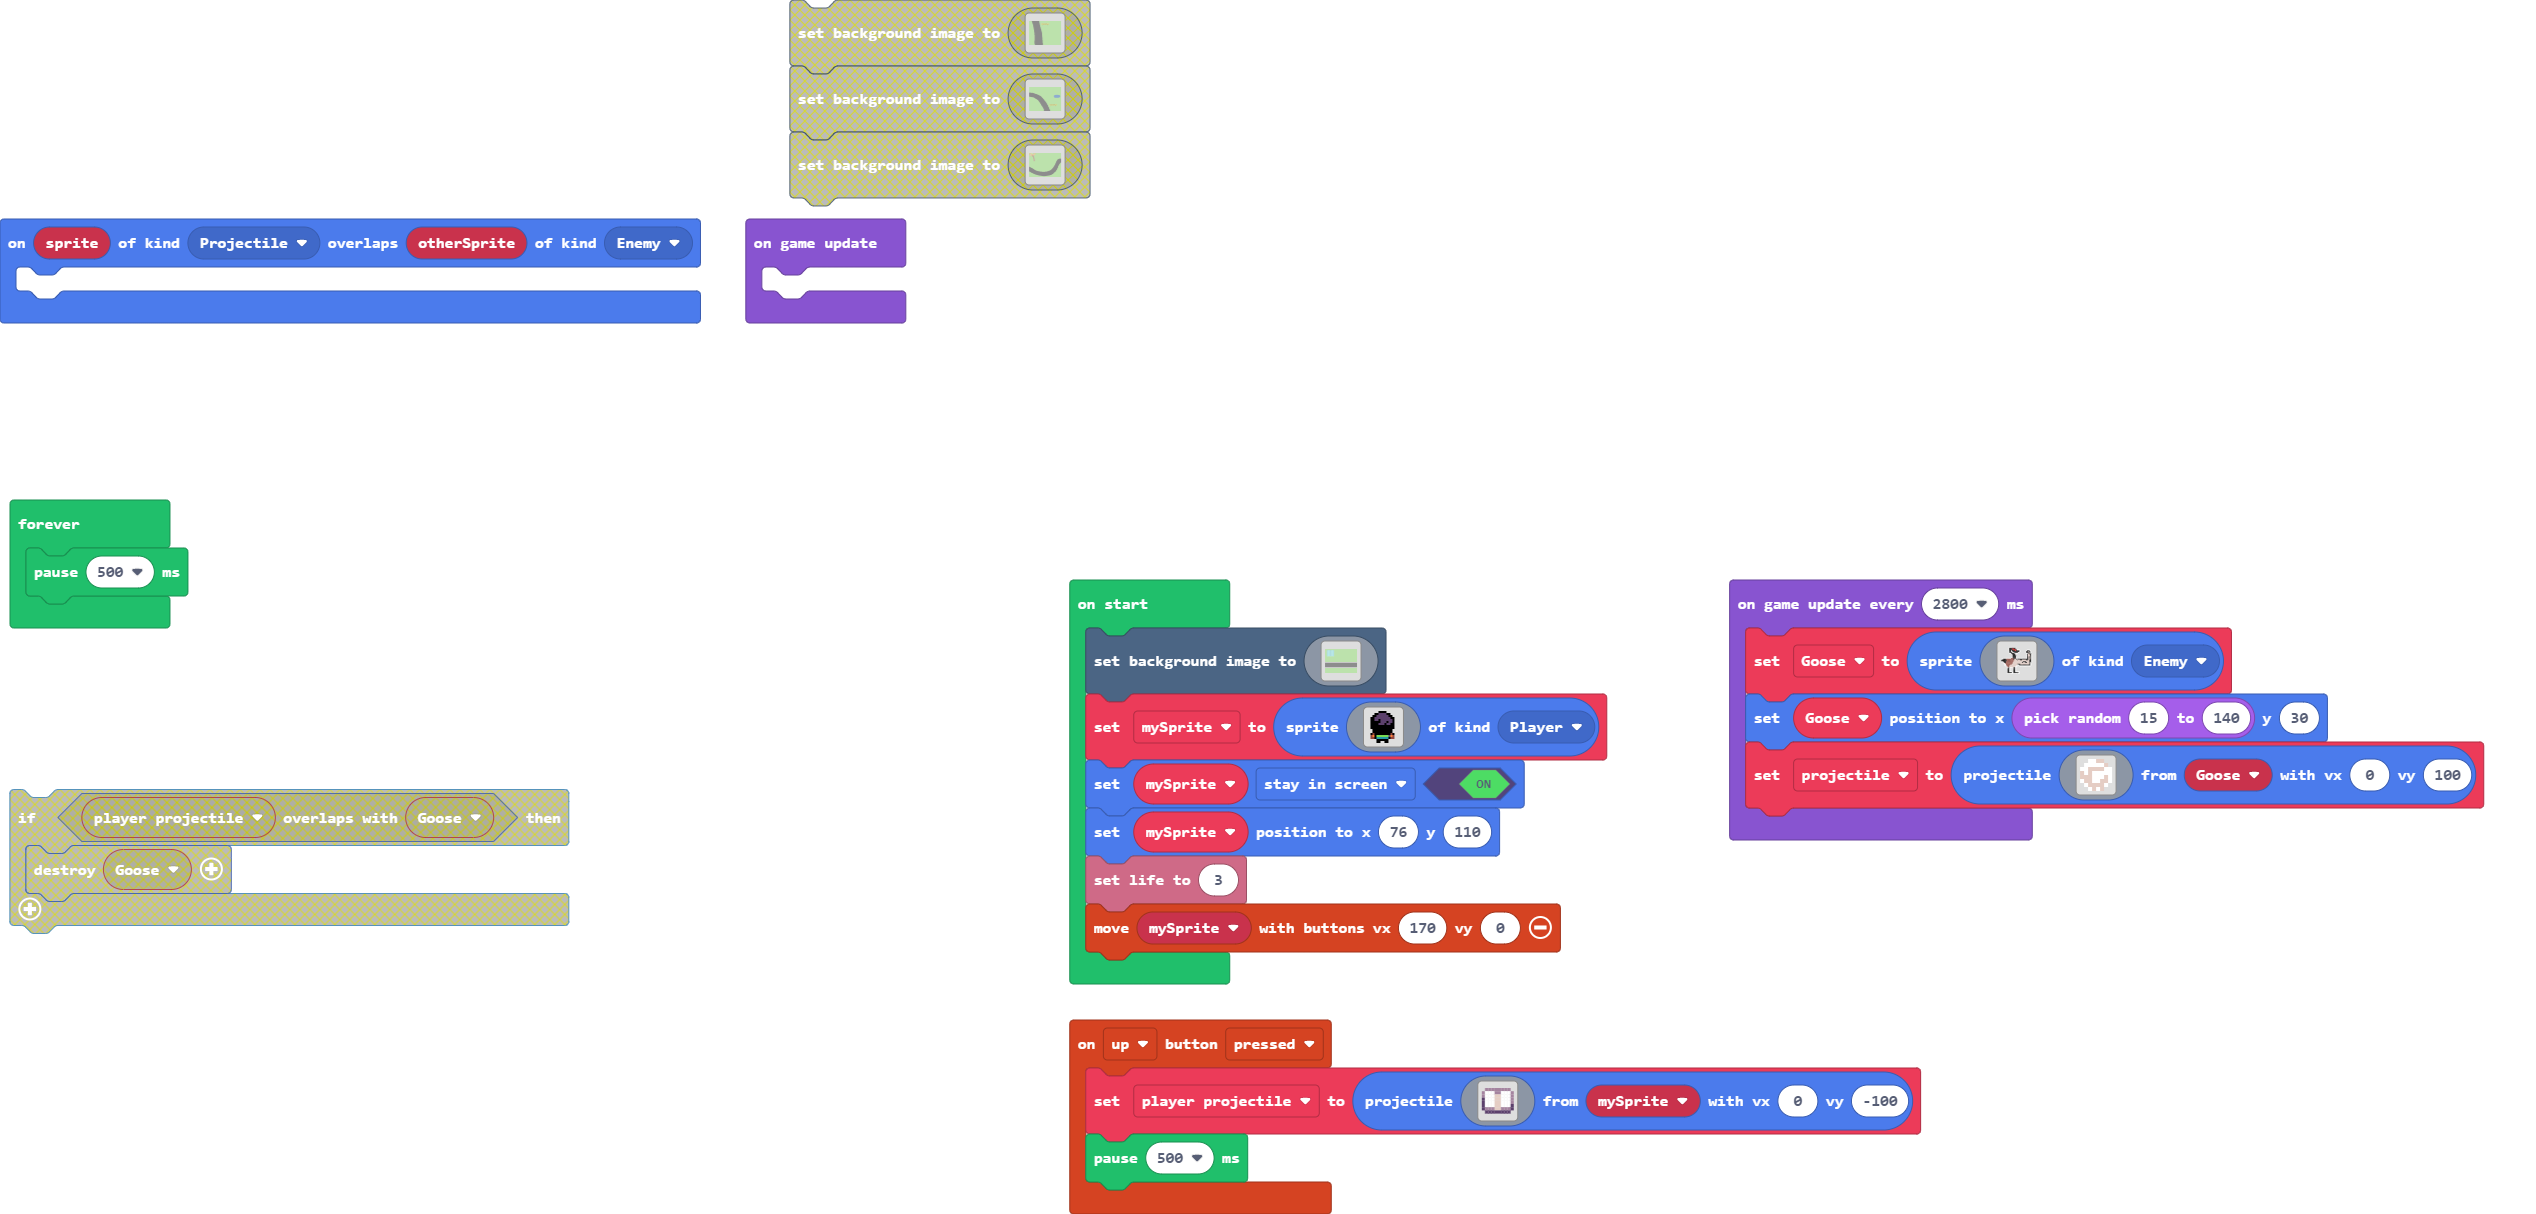
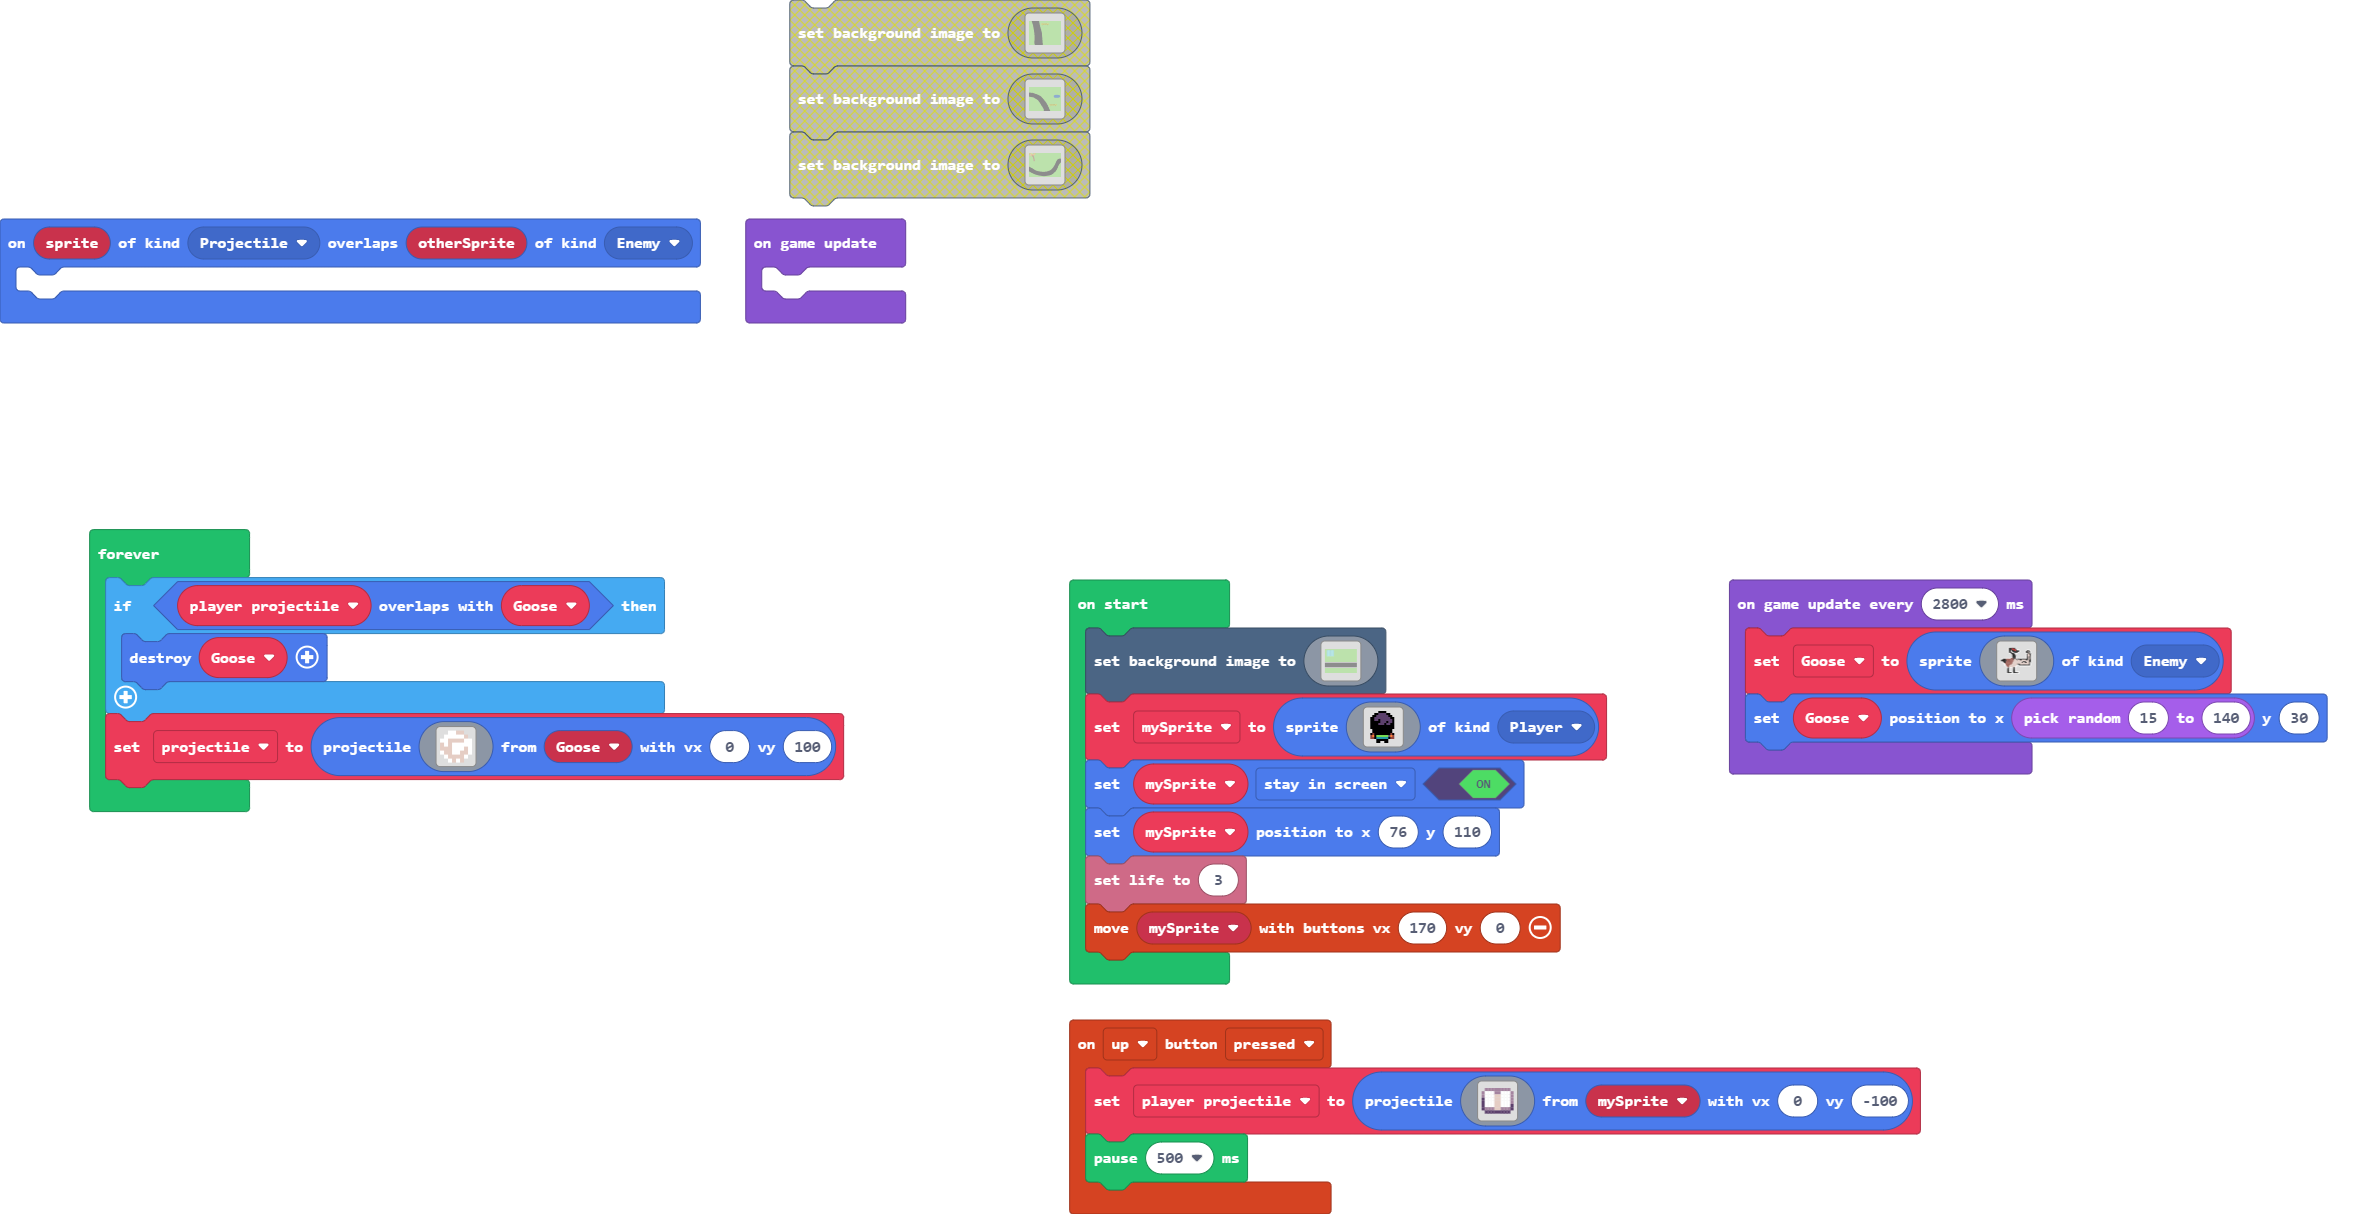
goose problem 2

Changed region(s): [[0.4044, 0.4572, 0.9954, 1.0], [0.0, 0.3962, 0.3733, 0.7619], [0.0, 0.0, 0.4666, 0.2743]]

diff --git a/main.ts b/main.ts
@@ -166,7 +166,19 @@ game.onUpdate(function () {
 	
 })
 forever(function () {
-    pause(500)
+    if (player_projectile.overlapsWith(Goose)) {
+        Goose.destroy()
+    }
+    projectile = sprites.createProjectileFromSprite(img`
+        . . 1 1 d d . . 
+        . 1 1 1 1 1 d . 
+        1 1 d d d d 1 1 
+        d 1 d 1 1 1 1 1 
+        d d d 1 1 1 d 1 
+        1 d d 1 1 d d 1 
+        . 1 d d d d 1 . 
+        . . 1 d 1 d . . 
+        `, Goose, 0, 100)
 })
 game.onUpdateInterval(2800, function () {
     Goose = sprites.create(img`
@@ -204,14 +216,4 @@ game.onUpdateInterval(2800, function () {
         .......111111111111111................
         `, SpriteKind.Enemy)
     Goose.setPosition(randint(15, 140), 30)
-    projectile = sprites.createProjectileFromSprite(img`
-        . . 1 1 d d . . 
-        . 1 1 1 1 1 d . 
-        1 1 d d d d 1 1 
-        d 1 d 1 1 1 1 1 
-        d d d 1 1 1 d 1 
-        1 d d 1 1 d d 1 
-        . 1 d d d d 1 . 
-        . . 1 d 1 d . . 
-        `, Goose, 0, 100)
 })
